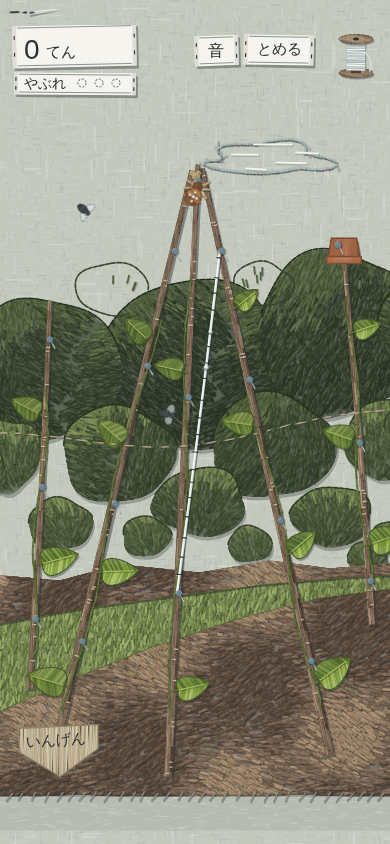
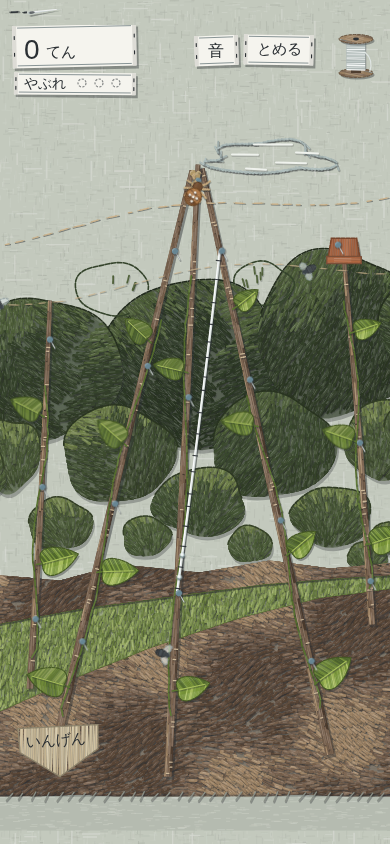
arcade: 010 garden-spider（ready）
Claude-Session: https://claude.ai/code/session_01QkUvG7rhwuqzh5G9T4Jq1S

diff --git a/arcade/index.html b/arcade/index.html
@@ -65,17 +65,18 @@ footer{margin:20px 2px 0;font-size:13px;color:var(--ink)}
 </style></head><body>
 <div class="wrap">
 <header class="station">
-<div class="number" aria-label="これまでの本数 9"><b>AS</b><span>09</span></div>
+<div class="number" aria-label="これまでの本数 10"><b>AS</b><span>10</span></div>
 <span class="kana">あそびば</span>
 <h1>遊び場</h1>
 <span class="roma">Asobiba</span>
-<div class="band"><span class="prev"><small>いちばん新しい</small>ぺったん二人前</span><span></span><span class="next"><small>つぎの1本</small>あしたの朝</span></div>
+<div class="band"><span class="prev"><small>いちばん新しい</small>朝つゆの網</span><span></span><span class="next"><small>つぎの1本</small>あしたの朝</span></div>
 </header>
 <div class="posts" aria-hidden="true"><i></i><i></i></div>
 <main class="board">
 <h2><b>伝言板</b><span>すぐ遊べて、すぐ終わるゲームを毎朝1本書き足しています</span></h2>
 <ol>
-<li class="note new"><a href="games/009-mochi-pound/index.html"><span class="when">10/8</span><span class="title">ぺったん二人前</span><span class="pitch">年の瀬の町内の餅つきで、杵をつく右手と餅を返す左手を一人二役。掛け声どおり拍に刻み、手が臼にある拍は待つ。</span><span class="how">スマホは画面の右をタップで杵、左をタップで返し（「みず」は左を長押し）。PCは J・→ で杵、F・← で返し（長押しで水）。Mで音を消す、P・Escで一時停止（拍ずれ調整あり）</span><span class="sign">リズム・合いの手（左右の手で別々のタップ）より</span></a></li>
+<li class="note new"><a href="games/010-garden-spider/index.html"><span class="when">10/11</span><span class="title">朝つゆの網</span><span class="pitch">英国の家庭菜園で庭の蜘蛛になり、支柱に糸を渡して虫を捕る。スズメバチの通り道にだけは張らない。</span><span class="how">スマホはまち針をタップ→別のまち針をタップ（またはなぞる）で糸を張る。糸を長押し（0.35秒）で切る（途中で離しても、すぐ押し直せば続きから）。PCはクリック・ドラッグで同じ操作、右クリックで糸を切る。キーボードは ←→↑↓ でまち針を選び、スペースで始点→終点、X で切る、Esc で取り消し。M で音、P で一時停止</span><span class="sign">2点の結びつけ・網張り（点と点をタップでつなぐ）より</span></a></li>
+<li class="note"><a href="games/009-mochi-pound/index.html"><span class="when">10/8</span><span class="title">ぺったん二人前</span><span class="pitch">年の瀬の町内の餅つきで、杵をつく右手と餅を返す左手を一人二役。掛け声どおり拍に刻み、手が臼にある拍は待つ。</span><span class="how">スマホは画面の右をタップで杵、左をタップで返し（「みず」は左を長押し）。PCは J・→ で杵、F・← で返し（長押しで水）。Mで音を消す、P・Escで一時停止（拍ずれ調整あり）</span><span class="sign">リズム・合いの手（左右の手で別々のタップ）より</span></a></li>
 <li class="note"><a href="games/008-alley-laundry/index.html"><span class="when">10/7</span><span class="title">せんたく日和</span><span class="pitch">路地の2本の物干し綱に濡れた洗濯物を干し、日が沈むまでに乾いた物をかごへ。綱の重さと上の段のしずくに注意。</span><span class="how">洗濯物を指やマウスでつまんで綱の上で離すと干す。乾いた物はつまんで右下のかごへ。キーボードは Tab・←→で選び Space で持ち上げ、矢印で行き先を選んで Space で置く。Mで音を消す、P・Escでひと休み</span><span class="sign">配置・つり合いの見極め（つまんで置く・ドラッグ&amp;ドロップ）より</span></a></li>
 <li class="note"><a href="games/007-goldfish-scoop/index.html"><span class="when">10/6</span><span class="title">ポイ一枚</span><span class="pitch">夜店の金魚すくい。紙のポイ1枚が破れるまで、どの金魚をどう浸けてすくうか見極めてお椀を満たす。</span><span class="how">水面を押さえるとポイが沈み、離すとすくう。乗ったらお椀をタップ（水面タップで逃がす）。PCはマウスで同じ操作、または矢印/WASDで動かしスペース長押しで沈める・Eで入れる・Qで逃がす。Mで音を消す、P・Escで一時停止</span><span class="sign">すくい取り・消耗の見極め（押さえて沈め、離してすくう）より</span></a></li>
 <li class="note"><a href="games/006-circus-cannon/index.html"><span class="when">10/5</span><span class="title">とんでけ大砲</span><span class="pitch">旅回りサーカスの大砲を引いて離し、曲芸師を象の網のど真ん中へ飛ばす。帽子3つ落とすと終わり。</span><span class="how">大砲を後ろへ引っぱって離す（向きで角度・長さで火薬）。PCはドラッグ、または↑↓/WSで角度・スペース長押しで火薬。Mで音を消す、P・Escで一時停止</span><span class="sign">狙い撃ち・放物線（引っぱって離す）より</span></a></li>

diff --git a/arcade/games/010-garden-spider/index.html b/arcade/games/010-garden-spider/index.html
@@ -235,7 +235,7 @@ function makeGame(seed) {
 // ===== 入力の判定（画面に依存しない。ボットも同じ物を使う） =====
 // 同じ場所でタップ（まち針・結び目）と長押し（糸を切る）を受けるので、押した瞬間には決めない。
 // まち針・結び目も離した時点で決める。近くに糸があれば、押した長さで決める: HOLD 以上 = 糸を切る / TAP 未満で離す = まち針のタップ / その間 = 切りかけ（KEEP 秒は進みが残る）
-const HOLD = 0.35, TAP = 0.2, KEEP = 0.7, DRAG = 12;
+const HOLD = 0.35, TAP = 0.2, KEEP = 0.7, DRAG = 12, TAP_ON = 14, TAP_NEAR = 0.3; // TAP_ON: まち針の真上とみなす画面上の距離 / TAP_NEAR: まち針が近いときのタップの長さ
 function makeInput(G) {
   const I = { sel: -1, drag: -1, press: null, carry: null };
   function anchorTap(a, sure) {
@@ -265,7 +265,9 @@ function makeInput(G) {
   I.tick = (t) => {
     const P = I.press; if (!P || P.tid < 0) return false;
     if (!G.thread(P.tid)) { // 押している糸が先に切れたら、指の下の別の糸に乗り換える（進みはそのまま）
-      const t2 = G.pickThreadPref(P.wx, P.wy, 16 / P.s); if (t2 < 0) { I.press = null; return false; } P.tid = t2; P.cs = null;
+      const t2 = G.pickThreadPref(P.wx, P.wy, 16 / P.s);
+      if (t2 < 0) { if (P.a >= 0) P.tid = -1; else I.press = null; return false; } // まち針を押していたなら、まち針だけのタップとして残す
+      P.tid = t2; P.cs = null;
     }
     if (t - P.t0 >= HOLD) { doCut(P.tid); return true; }
     return false;
@@ -277,7 +279,8 @@ function makeInput(G) {
     I.press = null;
     const held = t - P.tDown, ok = P.a >= 0 && G.anchors[P.a].alive;
     if (P.tid < 0) { if (ok && held < HOLD) anchorTap(P.a, true); return; } // まち針だけ: 離したらタップ（長押しでは糸を渡さない）
-    if (held < TAP && ok) anchorTap(P.a, P.dA <= 14); // 糸も近い: 短いタップで、まち針の真上を押したときだけ糸を渡す
+    if (ok && P.dA <= TAP_ON && held < HOLD) anchorTap(P.a, true); // まち針の真上: HOLD 前に離せば、ゆっくり押してもタップ
+    else if (held < TAP_NEAR && ok) anchorTap(P.a, P.dA <= 14); // 糸も近い: 短いタップで、まち針の真上を押したときだけ糸を渡す
     else I.carry = { tid: P.tid, k: t - P.t0, t };
   };
   I.prog = (t) => { // 長押しの進み 0..1（離した後も KEEP 秒は残す）

diff --git a/arcade/games/010-garden-spider/audit.md b/arcade/games/010-garden-spider/audit.md
@@ -88,4 +88,63 @@
 4. 結果画面: 網が残っていないときも、支柱とまち針を淡い返し縫いの輪郭で残す。または「破られた糸」を切れ端として描き、上半分が空っぽに見えないようにする。理由の行（例: 「スズメバチに 2 回破られた」）を1行足すと、もう一回の動機になる。
 5. 奥の大きな生垣の株は、針の向きのばらつきを増やし、扇の放射をやめて、株ごとに2〜3方向の面に割る（草ブラシ感を減らす）。
 
-VERDICT: REVISE
+（1回目の判定: REVISE）
+
+## 2回目の監査
+
+- 監査日: 2026-10-12 / 監査役（ミニゲーム工場）。2回目＝最後の監査
+- 見たもの: `node arcade/bin/qa.mjs`（OK・入力40回・91KB・エラー/警告なし）、`python3 arcade/bin/arcade.py check`（OK）、`qa/start.png`・`qa/play.png`、plan.md、design.md、index.html、meta.json（best_key 一致）
+- 自分で回したもの（道具はスクラッチの `aud010b/`）: index.html の `<script id="logic">` の `makeGame` と `makeInput`（入力の判定）を**そのまま**使う人想定ボット。反応 0.35 秒、タップのぶれ ±6px／±12px（円内一様）、糸の長押しは押しっぱなし 0.1〜0.8 秒の一様乱数（足りなければ 0.15〜0.35 秒後に押し直す）、タップは 0.05〜0.2 秒。縦（s = 1）と横（s = 0.67）で各 200〜400 回。Playwright で縦 390x844・横 844x390（外部通信を止めた system フォント）の予告中と結果画面を撮り、fps を測った。
+
+### 前回の指摘の確認
+1. **長押しで糸を切るとき、まち針・結び目より糸を優先** → **直った**。押した瞬間には決めず、`up()` で押した長さで決める作り（HOLD 0.35／TAP 0.2／KEEP 0.7／DRAG 12）。
+   - 糸の上（10px 以内）を 0.35 秒以上押したのに何も切れなかった回数: **0 回**（縦 ±6px 3205 回・±12px 3145 回、横 ±6px 3198 回・±12px 3168 回の長押しすべて。短い 52px の糸・結び目の多い糸を含む）。
+   - 長押しのつもりで新しい糸が張られた回数: **0**（まち針だけの所の長押しは何もしない。前回の `sel >= 0` の誤作動は消えた）。
+   - 予告の付いた糸が2本以上近いときは、予告の付いた糸を 1.5 倍の幅で先に選ぶ。押した糸と別の糸が先に切れた回は長押しの 1.4〜5%（多いのは横 ±12px）だが、ほぼすべて**同じく予告の付いた糸**（結び目の上で交わる所）で、予告の無い糸が代わりに切れたのは 3,000 回中 0〜2 回だけ。
+2. **押しっぱなしの長さに余裕** → **直った**。0.35 秒に縮め、途中で離しても 0.7 秒は進みが残り、続きから切れる。0.1〜0.8 秒のばらつきでも、押し直しで必ず切れている。
+3. **横画面の案内札の折り返し** → **直った**。`｜` で語の切れ目を指定し、844x390・system フォントで「黄と黒の撚り糸は／スズメバチの通り道／かかる糸は／長押し（右クリック）で切る」と語の途中で折れない。
+4. 確かめ方の基準 → 人想定ボットの途中失敗は **縦 4.0〜5.5%・横 4.0〜5.0%**（開発担当の申告 1.5〜2.0% より高いが、基準 5% 前後）。失敗はすべてスズメバチで、破られた予告の **96% は予告の付いた糸が4本以上**あった回（3秒で4本以上を切り切れない）。入力に断られたのではなく「同じ道に糸を重ねすぎた」結果で、網の形を見て避けられる**納得の失敗**と判断する。一度も切らない雑なボットは **97%** が途中で失敗し、判断の要素は弱まっていない。
+- 改善案もかなり入った: 長押し中に一緒に落ちる糸を示す（`cutSet`）、ミツバチは1本だけ切る、結び目のある糸のガ・カナブンに +1〜3、結果画面に支柱の輪郭・破られた糸の切れ端・理由の1行（「スズメバチに2回破られた」）。結果画面の上半分が空っぽに見える問題は解消。結び目重視の戦い方が雑な張り方を上回るかは、今回は測っていない。
+
+### 新しい理不尽が出ていないか
+- **予告の付いた糸が 1.5 倍幅で優先される副作用**: 予告中に予告の無い糸を押すと、17%（縦）〜26%（横）で近くの予告の付いた糸が選ばれる（交わる所・共有するまち針の近く）。ただし切れるのは「どうせ破られる糸」で、予告中に予告の無い糸を切りたい場面はほぼ無い（糸を回収したいだけ）。罰は増えないので許容。
+- **ゆっくりしたタップ（0.2 秒以上）が、糸のつながったまち針で無視される**: 糸が近いまち針では、0.2 秒以上押すと「切りかけ」扱いになり、まち針が選ばれない（タップを 0.05〜0.25 秒に広げると、0.2 秒を超えたタップ 4262 回のうち約 3 割で選択・連結が起きず、うち 50 回は押し直しで糸が切れた）。0.2 秒以下のタップでは受け付け不可は 13,614 回中 3 回（押している間にミツバチ等で糸が切れ、`tick` が押下ごと捨てる）。指の速い人には出ないが、ゆっくり押す人には「まち針を押したのに選ばれない」になる。→ 改善案 1。
+- **罰の同時発生**: 避けようの無い罰（スズメバチの破り・テントウムシ・ミツバチ）で 1 秒以内に 2 件重なった回は **200 回中 31〜33 回**（申告 6〜24 回より多い）。3 件以上は **0**。組み合わせはミツバチ+テントウムシ、テントウムシ+破り、ミツバチ+破りなど。やぶれ（網が落ちる数）に数えるのは破りだけで、破りは同時に1つしか起きないため「一度に2回やぶれて終わる」ことは無い。テントウムシ −3 とミツバチの1本は小さい罰で、learnings の「罰が同時多発しない」の趣旨（連続で命を失う・何が起きたか分からない）には触れないと判断し、**許容**。ただしカナブン（結び目の無い糸を切る）を含めると夕方に 1 秒で 3〜4 件重なる回が約 2 割ある。カナブンは「結び目を作る」で避けられる罰なので理不尽ではないが、札が重なって原因が読みにくい。→ 改善案 2。
+
+### 0. Fit
+- 前回どおり。題材・操作・気持ちいい瞬間は Why と合う。**合格**
+
+### 1. 楽しさ
+- 判断して避ける: 予告の付いた糸を急いで長押しする場面が、入力に邪魔されずに「間に合うか」の勝負になった。失敗は「やぶれ ●」と、結果画面の理由の行「スズメバチに○回破られた」「日暮れまで あと○秒だった」で分かりやすい。
+- もう一回の動機: 点数の幅は大きく（人想定ボットで中央値 161〜178、p90 283〜305）、理由の行と切れ端の網が次の作戦（同じ道に糸を重ねない）につながる。
+- 残る減点: ゆっくりしたタップが無視される場面、夕方の札の重なり、まとめ捕りの札と点数の札が重なって読めない（縦の予告中の撮影で「まと…×2 ×2」に +2 の札がかぶる）。
+- **楽しさスコア: 7/10**
+
+### 2. 完成度
+- qa・check とも OK、エラー無し。縦 390x844 と横 844x390 で HUD・札・ボタン・結果画面が収まる。fps は縦 56.9／横 57.8（申告の約 57 と一致）。
+- タイトル → 遊ぶ → 結果 → もう一回はつながっている。**合格**
+
+### 3. デザイン
+- §10 の実装条件 A〜G は前回どおり守られている（ふつうの予告は麻色の細いしつけ糸、スズメバチはレモンと濃灰の撚り糸、銀糸がいちばん明るい線、ビーズは房にならない、ガの目玉は小さい）。`setLineDash` は静止物のみ。
+- 結果画面が改善: 支柱の返し縫いの輪郭と破られた糸の丸まった切れ端が残り、「その日の網を挿絵として残す」が網の少ない回でも成り立つようになった。
+- 9 に届かない理由: 奥の大きな生垣の扇状の針がまだデジタルの草ブラシの手触り（改善案 5 は未対応）、点数の札が重なって白い四角の積み重ねに見える瞬間がある。
+- 「AIが作った感」スコア: **8/10**
+- **デザインスコア: 8/10**（合格ライン 8）
+
+### 4. 権利・安全
+- 外部通信は Google Fonts の `<link>` だけ（外部を遮断しても system フォントで動作）。実在の作品・キャラクターに似た物は無い。**合格**
+
+### 判定
+前回の必須の指摘（長押しが受け付けられない・押しっぱなしの余裕・横の札）はすべて直り、人想定ボットで「糸を正しく長押ししたのに切れない」は 0 回。残る失敗は網の作り方から来る納得の失敗。楽しさ 7・デザイン 8 で合格とする。
+
+### 改善案（PASS でも直すと良いもの）
+1. **ゆっくりしたタップの救済**（理不尽寄り。次の改修で直す）: まち針の真上（`dA <= 10`）を押して `HOLD` 前に離したときは、押した長さが `TAP` を超えていてもタップとして扱う（またはまち針が近いときだけ `TAP` を 0.3 秒に延ばす）。押している間に糸が切れて `tick` が `I.press = null` にするときも、`P.a >= 0` ならまち針のタップとして残す。
+2. 罰の札の重なり: 1 秒以内に罰の札が続くときは、2 件目以降を 0.4 秒ずらして出すか1枚にまとめる（「カナブンに2本切られた」）。テントウムシ・ミツバチの効果とスズメバチの破りのあいだも 1 秒あける（出現の間隔だけでなく、効果の起きる時刻で）。
+3. まとめ捕りの札と点数の札が重ならないよう、同じ場所の札は上へずらして積む。
+4. 奥の大きな生垣の株は、扇の放射をやめ、株ごとに 2〜3 方向の面に割る（前回の改善案 5）。
+
+## 監査後の修正
+- 改善案 1（ゆっくりしたタップの救済）だけ対応: まち針の真上（画面上 14px 以内）を押して HOLD（0.35 秒）前に離せば、押した長さに関係なくタップ。まち針が近いときのタップの長さは 0.3 秒に延長。押している間に糸が切れてもまち針を押していたならタップとして残す。他の挙動・デザインは変更なし。
+- 人想定ボット（タップ 0.05〜0.3 秒、ぶれ 6px）: まち針の選択が受け付けられない回数 4079 → 57 回（0.05〜0.2 秒のタップの旧版 123 回より少なく、残りは別のまち針を押したもの）、長さ由来の失敗は 4 回。長押し 0.36〜0.8 秒の糸切りは 600/600 で切れる。雑なボットの失敗率 99%・終了時間 中央値 67.9 秒は変わらず。fps 縦 57.4／横 58.1（2倍解像度）。qa・check とも OK。
+
+VERDICT: PASS

diff --git a/arcade/learnings.md b/arcade/learnings.md
@@ -12,3 +12,4 @@
 - [2026-10-07 007] canvas の ctx.filter（blur 等）を毎フレーム使わない。位相ごとに作り置いた絵を drawImage で置く。2倍解像度で fps を測ってから監査に回す。時間による消耗の最後の一撃は次の操作の瞬間に起こし、運搬中などに理不尽に起こさない。
 - [2026-10-08 008] 「上限を超えたら失敗」は、欲張りボットで実際に超えるか（別の頭打ちが先に来ていないか）と、止める量を振って得点の山が上限の近くにあるかを測る。時間で終わる遊びは最後の20秒がいちばん稼げるかも測る。
 - [2026-10-09 009] リズムや長押しのある遊びは、人想定ボットでタイミングのぶれ（±100ms）に加えて押しっぱなしの長さ（0.1〜0.3秒）も振り、正しい拍で押して罰が出ないか確かめる。判定は音の時刻基準で。
+- [2026-10-12 010] タップと長押しを同じ場所で受けるときは、押した瞬間に確定せず離した時点・押した長さで決める。人想定ボットでタップ0.05〜0.3秒・長押し0.1〜0.8秒を振り、短い／重なった対象でも「正しく操作したのに受け付けられない」が0か確かめる。
